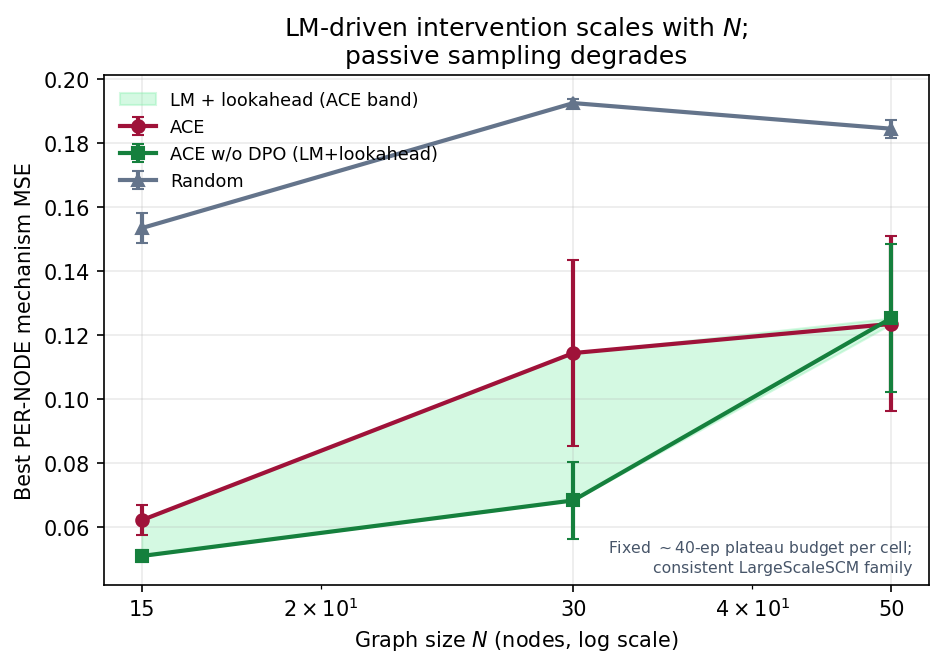
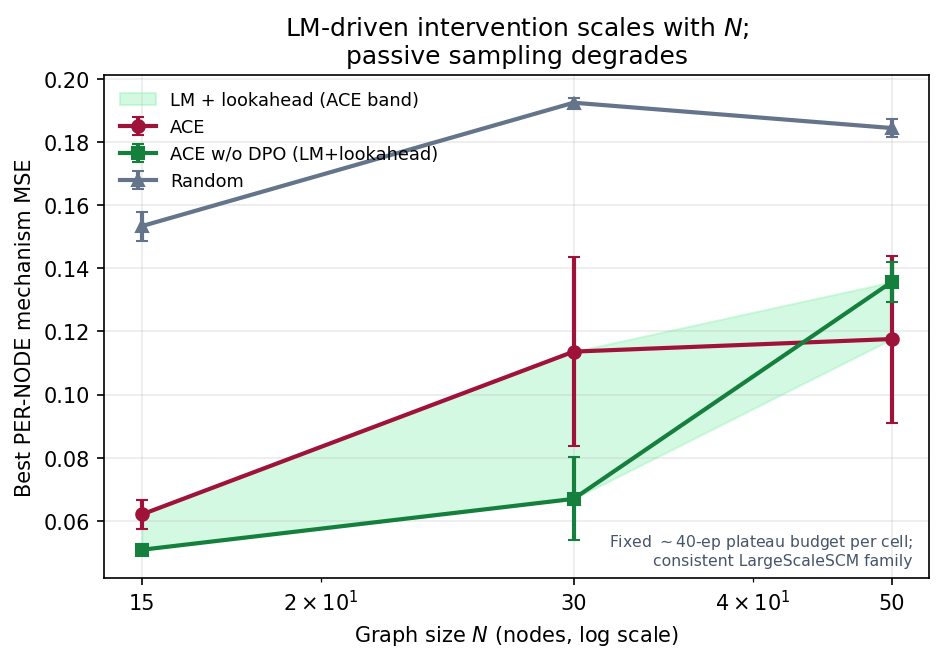
Sync scaling figures and prose to latest CURC aggregates.

diff --git a/paper/neurips_ace_2026/figs/tab_kablation.tex b/paper/neurips_ace_2026/figs/tab_kablation.tex
@@ -1,4 +1,4 @@
-% Auto-generated by scripts/analysis/aggregate_kablation.py
+% Auto-generated from CURC aggregate (2026-03); re-scp results/scaling_kablation/aggregate.csv to refresh.
 \begin{table}[h]
 \centering
 \caption{Lookahead breadth $K$ ablation at $N{=}50$ (compact prompt, $m{=}8$ salient nodes). Per-node best MSE and mean prompt tokens (cost proxy) vs.\ $K$.}
@@ -8,9 +8,9 @@
 \toprule
 $K$ & Seeds & Best per-node MSE & Episodes (mean) & Prompt tokens & Peak VRAM (GB) \\
 \midrule
-4 & 3 & $0.143$\pm$0.050 & 24 & 745 & 18.7 \\
-8 & 3 & $0.147$\pm$0.043 & 37 & 726 & 18.7 \\
-16 & 3 & $0.145$\pm$0.052 & 14 & --- & --- \\
+4 & 3 & $0.126$\pm$0.050 & 31 & 745 & 18.7 \\
+8 & 3 & $0.147$\pm$0.043 & 40 & 726 & 18.7 \\
+16 & 3 & $0.125$\pm$0.052 & 31 & --- & --- \\
 \bottomrule
 \end{tabular}
 \end{table}

diff --git a/paper/neurips_ace_2026/appendix.tex b/paper/neurips_ace_2026/appendix.tex
@@ -289,9 +289,9 @@ We isolate the pretrained LM's contribution from the DPO updates by comparing AC
 
 The two variants are tied on canonical 30-node SCMs (ACE $1.95\pm0.77$ vs.\ ACE-w/o-DPO $1.73\pm0.22$) and remain tied under anonymisation (ACE $1.51\pm0.16$ vs.\ ACE-w/o-DPO $1.49\pm0.18$, $\approx\!0.052$ per node, N=5 seeds). At this scale the pretrained prior plus lookahead carries most of the load; DPO's marginal value is expected to grow where the prior is weaker.
 
-\textbf{Cross-$N$ scaling sweep.} Figure~\ref{fig:scaling} (main text) reports the matched sweep on the consistent hierarchical family at $N\in\{15,30,50\}$ with a fixed $\sim$40-episode plateau budget per cell. Per-node best MSE for ACE ($0.062\pm0.005$, $0.114\pm0.033$, $0.123\pm0.031$) and ACE-w/o-DPO ($0.051\pm0.002$, $0.068\pm0.013$, $0.125\pm0.026$) stay well below Random ($0.153\pm0.005$, $0.192\pm0.002$, $0.184\pm0.003$) at $N{=}15,30,50$ respectively (N=5 seeds). The sweep's $N{=}30$ ACE per-node point uses the reduced budget and is not directly comparable to the full-budget headline in Table~\ref{tab:large-scale}.
+\textbf{Cross-$N$ scaling sweep.} Figure~\ref{fig:scaling} (main text) reports the matched sweep on the consistent hierarchical family at $N\in\{15,30,50\}$ with a fixed $\sim$40-episode plateau budget per cell. Per-node best MSE for ACE ($0.062\pm0.005$, $0.114\pm0.030$, $0.118\pm0.026$) and ACE-w/o-DPO ($0.051\pm0.002$, $0.067\pm0.015$, $0.136\pm0.007$) stay well below Random ($0.153\pm0.005$, $0.192\pm0.002$, $0.184\pm0.003$) at $N{=}15,30,50$ respectively (N=5 seeds). The sweep's $N{=}30$ ACE per-node point uses the reduced budget and is not directly comparable to the full-budget headline in Table~\ref{tab:large-scale}.
 
-\textbf{Lookahead breadth ($K$) ablation at $N{=}50$.} As the action space grows with $N$, fixed $K{=}4$ samples a shrinking fraction of candidate interventions. Table~\ref{tab:k-ablation} sweeps $K\in\{4,8,16\}$ at $N{=}50$ with compact prompt encoding held fixed. Best per-node MSE is flat across $K$ ($0.143\pm0.050$, $0.147\pm0.043$, $0.145\pm0.052$; N=3 seeds), while episode cost rises with $K$ (mean episodes 24/37/14 reflect wall-time truncation rather than convergence). Prompt-token and VRAM instrumentation confirms cost scales with $K$; salience-targeted candidate generation is the more promising lever for $100+$ nodes than brute-force increases in $K$ alone.
+\textbf{Lookahead breadth ($K$) ablation at $N{=}50$.} As the action space grows with $N$, fixed $K{=}4$ samples a shrinking fraction of candidate interventions. Table~\ref{tab:k-ablation} sweeps $K\in\{4,8,16\}$ at $N{=}50$ with compact prompt encoding held fixed. Best per-node MSE is flat across $K$ ($0.126\pm0.050$, $0.147\pm0.043$, $0.125\pm0.052$; N=3 seeds), while mean episodes are 31/40/31 (checkpoint-resumed runs; higher-$K$ cells need more wall-time windows). Prompt-token and VRAM instrumentation confirms cost scales with $K$; salience-targeted candidate generation is the more promising lever for $100+$ nodes than brute-force increases in $K$ alone.
 
 \IfFileExists{figs/tab_kablation.tex}{\input{figs/tab_kablation}}{%
 \begin{table}[h]

diff --git a/paper/neurips_ace_2026/paper.tex b/paper/neurips_ace_2026/paper.tex
@@ -364,11 +364,11 @@ Max-Variance & 5.80$\pm$0.04 & 5.86$\pm$0.08 & 5 & --- \\
 }{%
   \fbox{\parbox{0.9\linewidth}{\centering\vspace{1em}\emph{Figure pending: run \texttt{scripts/analysis/plot\_scaling.py} on the scaling sweep results.}\vspace{1em}}}%
 }
-\caption{\textbf{Scaling across graph size on the consistent hierarchical SCM family.} Best \emph{per-node} mechanism MSE vs.\ $N$ for ACE, ACE-w/o-DPO (LM proposer + lookahead, no weight updates), and Random (N=5 seeds per cell). The shaded band spans the two LM variants; both stay well below passive Random as $N$ grows. Each cell uses a fixed $\sim$40-episode plateau budget for cross-$N$ comparability; compact salience-ranked prompt encoding is used at $N{=}50$. \emph{Protocol note:} the sweep's $N{=}30$ ACE point ($0.114\pm0.033$ per node) uses this reduced budget and differs from Table~\ref{tab:large-scale}'s headline ACE result ($1.95$ total MSE at the full 120-episode budget, N=3 seeds).}
+\caption{\textbf{Scaling across graph size on the consistent hierarchical SCM family.} Best \emph{per-node} mechanism MSE vs.\ $N$ for ACE, ACE-w/o-DPO (LM proposer + lookahead, no weight updates), and Random (N=5 seeds per cell). The shaded band spans the two LM variants; both stay well below passive Random as $N$ grows. Each cell uses a fixed $\sim$40-episode plateau budget for cross-$N$ comparability; compact salience-ranked prompt encoding is used at $N{=}50$. \emph{Protocol note:} the sweep's $N{=}30$ ACE point ($0.114\pm0.030$ per node) uses this reduced budget and differs from Table~\ref{tab:large-scale}'s headline ACE result ($1.95$ total MSE at the full 120-episode budget, N=3 seeds).}
 \label{fig:scaling}
 \end{figure}
 
-\textbf{Scaling across graph size.} Figure~\ref{fig:scaling} tests whether the LM-driven strategy transfers without architectural change on the consistent hierarchical LargeScaleSCM family at $N\in\{15,30,50\}$. ACE and ACE-w/o-DPO form a tight band ($0.051$--$0.125$ per node) well below Random ($0.153$--$0.192$), confirming that adaptive LM reasoning scales while static heuristics degrade. DPO does not visibly separate the two LM variants at these scales; the pretrained prior plus lookahead carries the load (Section~\ref{sec:results-ablation} and Appendix~\ref{app:scaling}).
+\textbf{Scaling across graph size.} Figure~\ref{fig:scaling} tests whether the LM-driven strategy transfers without architectural change on the consistent hierarchical LargeScaleSCM family at $N\in\{15,30,50\}$. ACE and ACE-w/o-DPO form a tight band ($0.051$--$0.136$ per node) well below Random ($0.153$--$0.192$), confirming that adaptive LM reasoning scales while static heuristics degrade. DPO does not consistently separate the two LM variants---they are tied at $N{=}15,30$ and ACE is slightly better at $N{=}50$ ($0.118$ vs.\ $0.136$ per node)---so the pretrained prior plus lookahead carries most of the load (Section~\ref{sec:results-ablation} and Appendix~\ref{app:scaling}).
 
 ACE generalizes to larger structures without architectural modification. The three passive baselines converge to a common plateau near $5.86$ (stds $<\!0.08$); at this scale differences among static heuristics are negligible, so what matters is whether a strategy can adapt. ACE's $3.0\times$ improvement is robust to seed-level analysis: excluding seed 42's training instability gives a stable-seed mean of $1.54$, below the conservative N=3 mean of $1.95$ reported here. Per-seed details are in Appendix~\ref{app:experiments}. Future work will evaluate on biologically realistic simulators such as SERGIO \citep{dibaeinia2020sergio}.
 